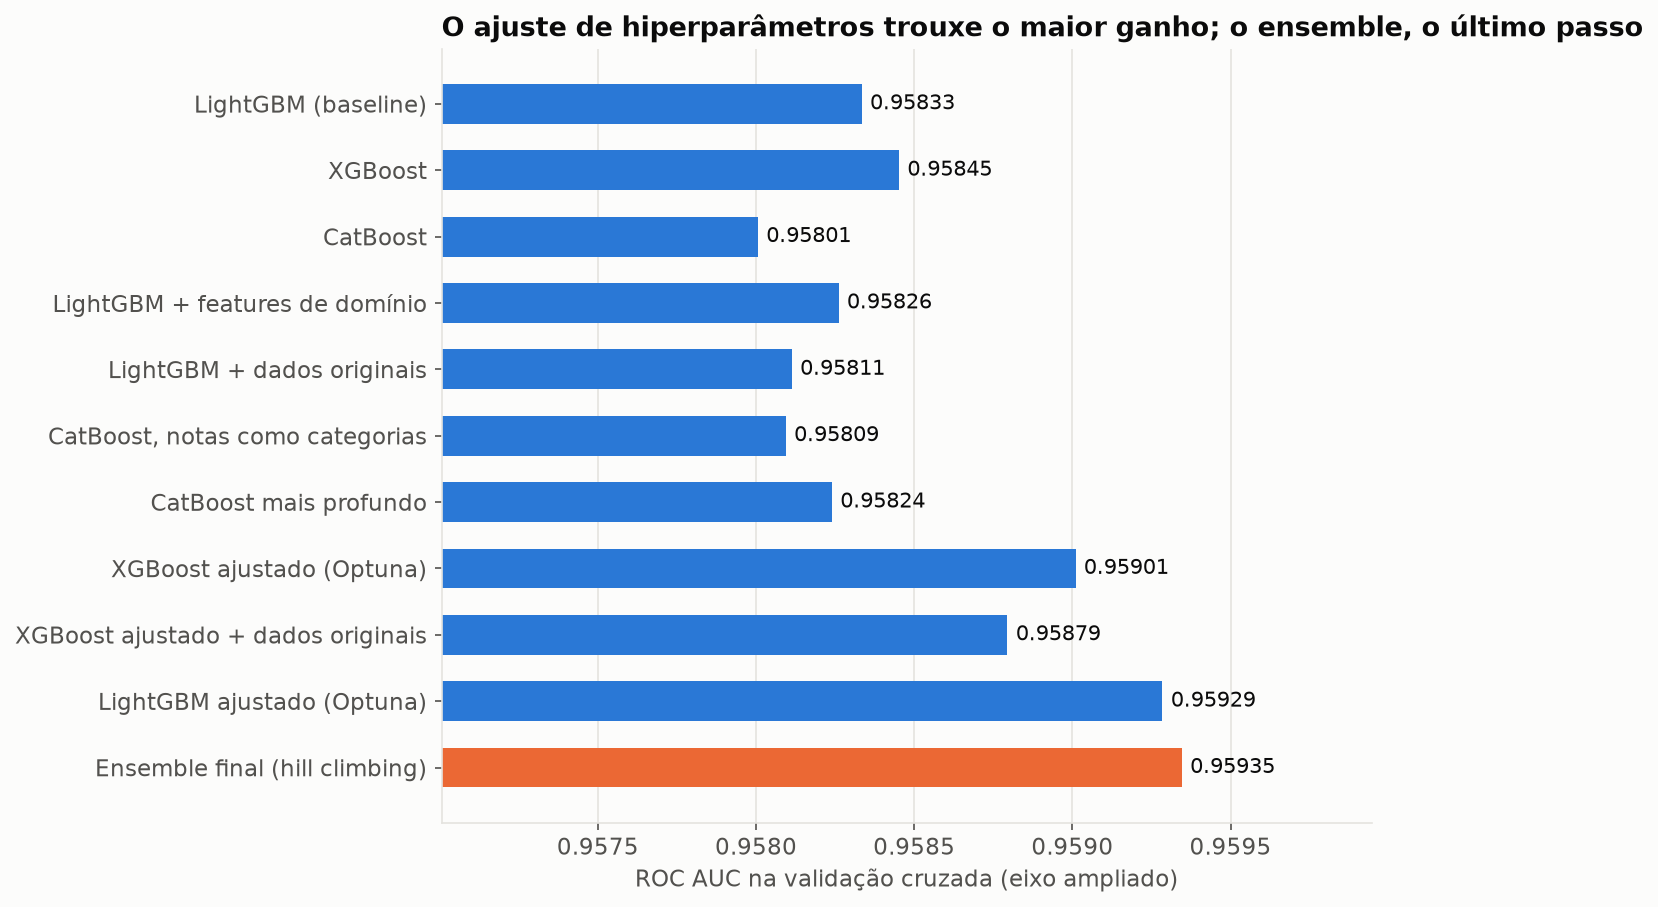
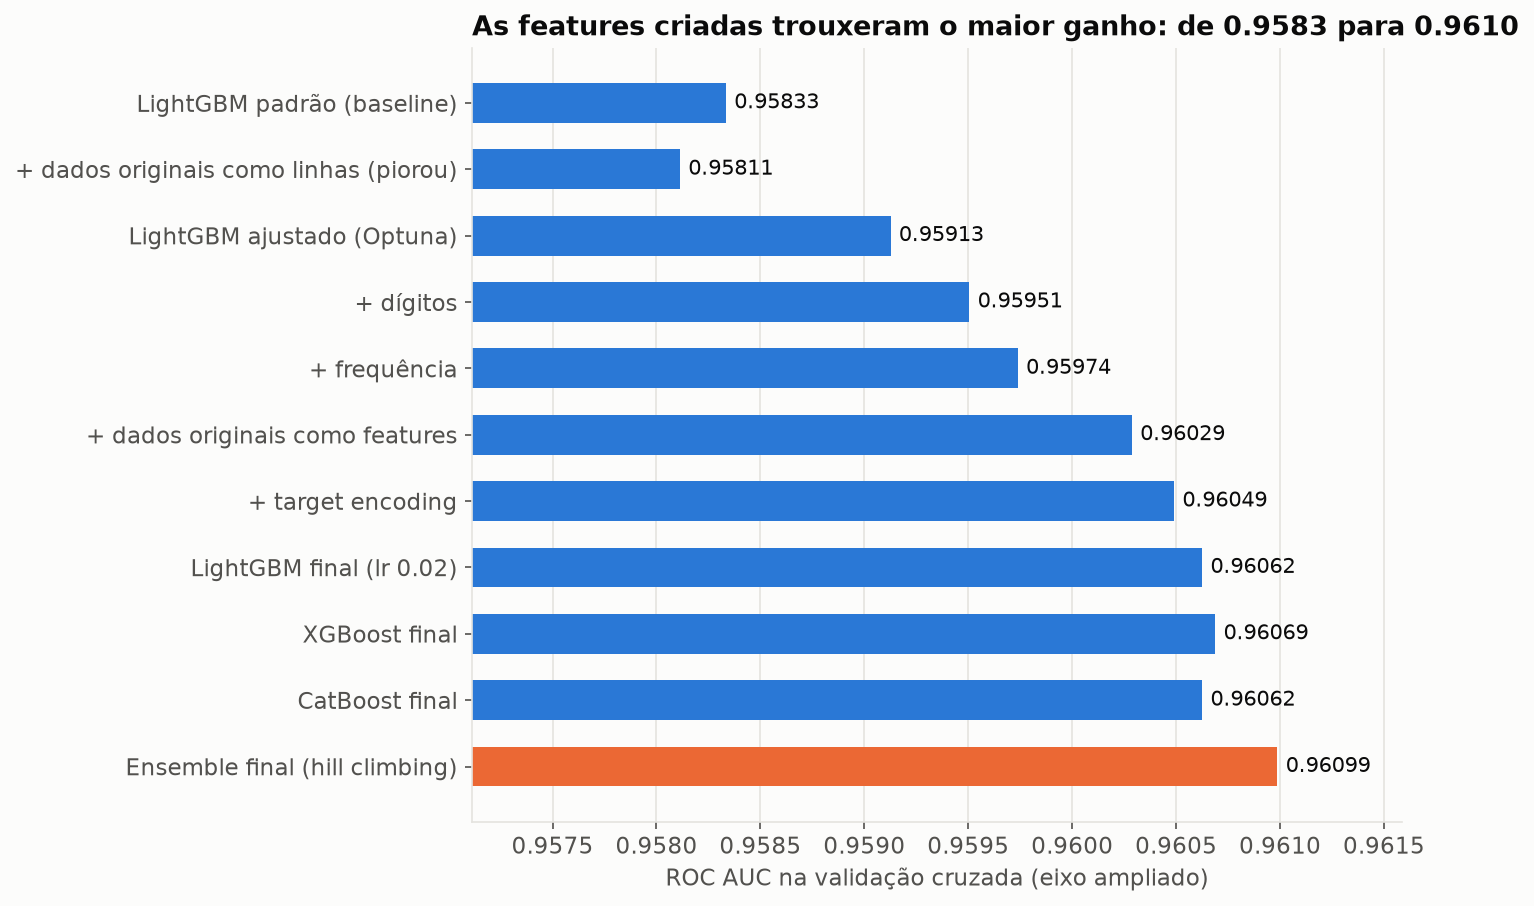
Atualizar a figura da jornada com a rodada de features
A narrativa mudou: o maior ganho veio das features, não do ajuste de
hiperparâmetros. A figura passa a mostrar a escada de famílias de
features e inclui a tentativa que piorou (original como linhas).

diff --git a/scripts/make_figures.py b/scripts/make_figures.py
@@ -131,7 +131,9 @@ def fig_experiments(log: pd.DataFrame, names: dict[str, str]) -> None:
     ax.invert_yaxis()
     lo = data.min() - 0.001
     ax.set_xlim(lo, data.max() + 0.0006)
-    ax.set_title("O ajuste de hiperparâmetros trouxe o maior ganho; o ensemble, o último passo")
+    ax.set_title(
+        "As features criadas trouxeram o maior ganho: de 0.9583 para 0.9610"
+    )
     ax.set_xlabel("ROC AUC na validação cruzada (eixo ampliado)")
     ax.grid(axis="y", visible=False)
     _save(fig, "04_jornada_experimentos.png")
@@ -139,16 +141,16 @@ def fig_experiments(log: pd.DataFrame, names: dict[str, str]) -> None:
 
 # Experimentos exibidos na jornada (ordem = narrativa da documentação)
 JOURNEY = {
-    "lgbm_raw": "LightGBM (baseline)",
-    "xgb_raw": "XGBoost",
-    "cat_raw": "CatBoost",
-    "lgbm_domain": "LightGBM + features de domínio",
-    "lgbm_orig": "LightGBM + dados originais",
-    "cat_ratings_cat": "CatBoost, notas como categorias",
-    "cat_deep": "CatBoost mais profundo",
-    "xgb_tuned": "XGBoost ajustado (Optuna)",
-    "xgb_tuned_orig": "XGBoost ajustado + dados originais",
-    "lgbm_tuned": "LightGBM ajustado (Optuna)",
+    "lgbm_raw": "LightGBM padrão (baseline)",
+    "lgbm_orig": "+ dados originais como linhas (piorou)",
+    "lgbm_tuned_lr05": "LightGBM ajustado (Optuna)",
+    "lgbm_fe_digits": "+ dígitos",
+    "lgbm_fe_freq": "+ frequência",
+    "lgbm_fe_orig": "+ dados originais como features",
+    "lgbm_fe_te": "+ target encoding",
+    "lgbm_fe_final": "LightGBM final (lr 0.02)",
+    "xgb_fe_final": "XGBoost final",
+    "cat_fe_final": "CatBoost final",
     "ensemble": "Ensemble final (hill climbing)",
 }
 
